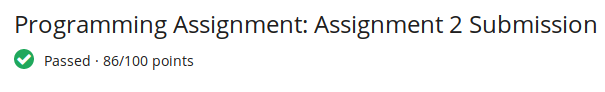
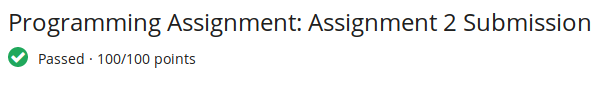
assgn 2 100%

diff --git a/w2/README.md b/w2/README.md
@@ -1,5 +1,3 @@
-- [!] **Cannot understand what is wrong with questions #12 e #13. Sorry, for now!**
-
 ![assgn2](./media/assgn2.png)
 
 
